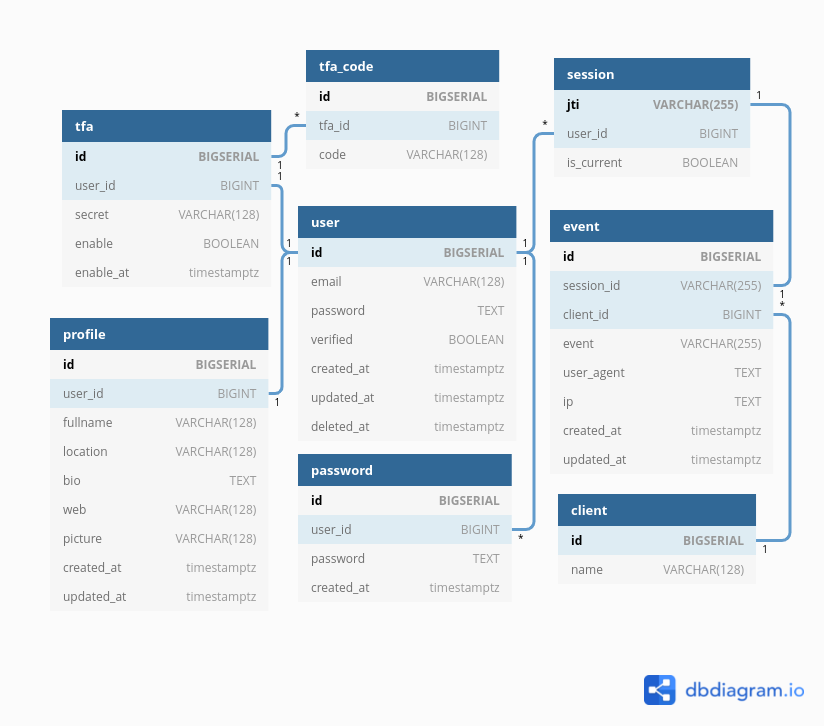
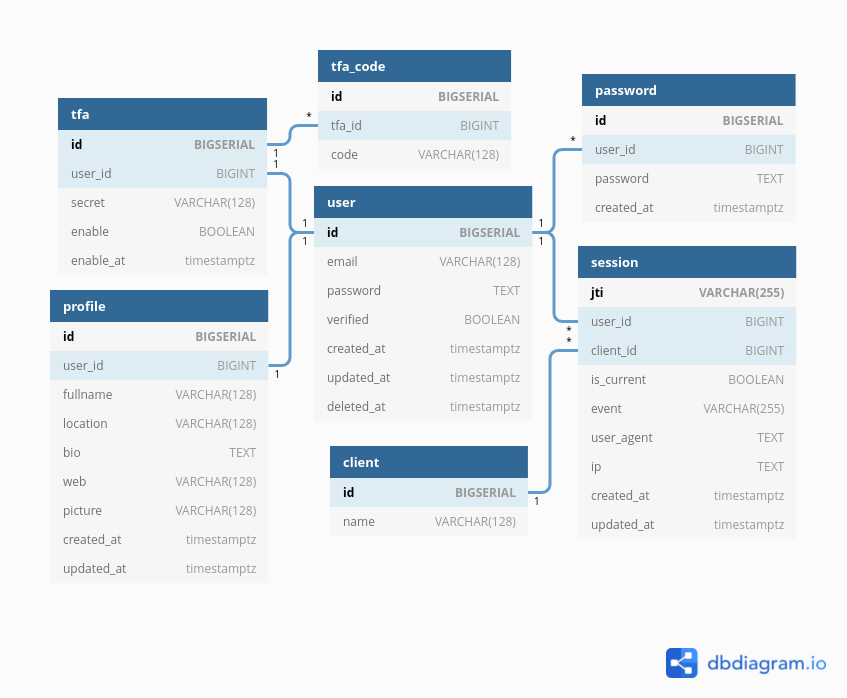
fixing database schema

Changed region(s): [[0.0607, 0.0602, 0.9709, 0.8424], [0.7585, 0.9327, 0.9709, 0.9628]]

diff --git a/api/server.go b/api/server.go
@@ -46,7 +46,6 @@ type serverStores struct {
 	passwordStore datastore.PasswordStore
 	sessionStore  datastore.SessionStore
 	clientStore   datastore.ClientStore
-	eventStore    datastore.EventStore
 	tokenStore    datastore.TokenStore
 }
 
@@ -71,7 +70,6 @@ func (s *Server) initStores() error {
 	passwordStore := postgres.NewPasswordStore(s.DataSource.PostgresDB)
 	sessionStore := postgres.NewSessionStore(s.DataSource.PostgresDB)
 	clientStore := postgres.NewClientStore(s.DataSource.PostgresDB)
-	eventStore := postgres.NewEventStore(s.DataSource.PostgresDB)
 	tokenStore := redisdb.NewTokenStore(s.DataSource.RedisDB)
 
 	s.stores = &serverStores{
@@ -80,7 +78,6 @@ func (s *Server) initStores() error {
 		passwordStore: passwordStore,
 		sessionStore:  sessionStore,
 		clientStore:   clientStore,
-		eventStore:    eventStore,
 		tokenStore:    tokenStore,
 	}
 	return nil
@@ -123,7 +120,7 @@ func (s *Server) createHandlers() http.Handler {
 		r.Route("/auth", func(r chi.Router) {
 			r.Post("/register", auth.Register(*s.helper.Email, s.stores.userStore, s.stores.profileStore, s.stores.passwordStore, s.stores.tokenStore))
 			r.Post("/verification", auth.Verification(*s.helper.Email, s.stores.tokenStore, s.stores.userStore))
-			r.Post("/login", auth.Login(*s.helper.Jwtauth, s.stores.userStore, s.stores.sessionStore, s.stores.clientStore, s.stores.eventStore))
+			r.Post("/login", auth.Login(*s.helper.Jwtauth, s.stores.userStore, s.stores.sessionStore, s.stores.clientStore))
 
 			r.Route("/password", func(r chi.Router) {
 				r.Post("/forgot", auth.ForgotPassword(*s.helper.Email, s.stores.userStore, s.stores.tokenStore))

diff --git a/datastore/store.go b/datastore/store.go
@@ -36,18 +36,8 @@ type Password struct {
 type Session struct {
 	JTI       string  `json:"JTI" sql:"jti"`
 	UserId    float64 `json:"userId" sql:"user_id"`
-	IsCurrent bool    `json:"isCurrent" validate:"required" sql:"is_current"`
-}
-
-type Client struct {
-	ID   float64 `json:"id" sql:"id"`
-	Name string  `json:"name" validate:"required" sql:"name"`
-}
-
-type Event struct {
-	ID        float64 `json:"id" sql:"id"`
-	SessionId string  `json:"JTI" sql:"jti"`
 	ClientId  float64 `json:"clientId" sql:"client_id"`
+	IsCurrent bool    `json:"isCurrent" validate:"required" sql:"is_current"`
 	Event     string  `json:"event" sql:"event"`
 	UserAgent string  `json:"userAgent" sql:"user_agent"`
 	IP        string  `json:"ip" sql:"ip"`
@@ -55,19 +45,19 @@ type Event struct {
 	UpdatedAt string  `json:"updatedAt" sql:"updated_at"`
 }
 
+type Client struct {
+	ID   float64 `json:"id" sql:"id"`
+	Name string  `json:"name" validate:"required" sql:"name"`
+}
+
 type SessionStore interface {
 	GetUserSession(ctx context.Context, userId float64) (*Session, error)
-	AddNewSession(ctx context.Context, session *Session) error
+	AddNewSession(ctx context.Context, session *Session, clientId float64) error
 }
 
 type ClientStore interface {
 	GetClientByName(ctx context.Context, name string) (*Client, error)
 	AddNewClient(ctx context.Context, name string) (*Client, error)
-}
-
-type EventStore interface {
-	GetEventBySession(ctx context.Context, sessionId string) (*Event, error)
-	AddNewEvent(ctx context.Context, sessionId string, clientId float64) error
 }
 
 type ProfileStore interface {

diff --git a/api/handler/auth/login.go b/api/handler/auth/login.go
@@ -15,7 +15,7 @@ type loginRequest struct {
 	Password string `json:"password"`
 }
 
-func Login(jwtAuth helper.JWTAuth, userStore datastore.UserStore, sessionStore datastore.SessionStore, clientStore datastore.ClientStore, eventStore datastore.EventStore) http.HandlerFunc {
+func Login(jwtAuth helper.JWTAuth, userStore datastore.UserStore, sessionStore datastore.SessionStore, clientStore datastore.ClientStore) http.HandlerFunc {
 	return func(w http.ResponseWriter, r *http.Request) {
 
 		ctx := r.Context()
@@ -47,18 +47,13 @@ func Login(jwtAuth helper.JWTAuth, userStore datastore.UserStore, sessionStore d
 			return
 		}
 
-		if err := sessionStore.AddNewSession(ctx, &datastore.Session{JTI: jti, UserId: usr.ID, IsCurrent: true}); err != nil {
-			render.Render(w, r, helper.InternalServerErrorRenderer(err))
-			return
-		}
-
 		client, err := clientStore.GetClientByName(ctx, clientName)
 		if err != nil {
 			render.Render(w, r, helper.InternalServerErrorRenderer(err))
 			return
 		}
 
-		if err := eventStore.AddNewEvent(ctx, jti, client.ID); err != nil {
+		if err := sessionStore.AddNewSession(ctx, &datastore.Session{JTI: jti, UserId: usr.ID, IsCurrent: true}, client.ID); err != nil {
 			render.Render(w, r, helper.InternalServerErrorRenderer(err))
 			return
 		}

diff --git a/datastore/postgres/session.go b/datastore/postgres/session.go
@@ -21,15 +21,15 @@ func (s *SessionStore) GetUserSession(ctx context.Context, userId float64) (*dat
 	return nil, nil
 }
 
-func (s *SessionStore) AddNewSession(ctx context.Context, session *datastore.Session) error {
-	query := `INSERT INTO "session" (jti, user_id, is_current) VALUES ($1, $2, $3)`
+func (s *SessionStore) AddNewSession(ctx context.Context, session *datastore.Session, clientId float64) error {
+	query := `INSERT INTO "session" (jti, user_id, client_id, is_current) VALUES ($1, $2, $3, $4)`
 
 	stmt, err := s.db.Prepare(query)
 	if err != nil {
 		return err
 	}
 
-	_, err = stmt.ExecContext(ctx, session.JTI, session.UserId, session.IsCurrent)
+	_, err = stmt.ExecContext(ctx, session.JTI, session.UserId, clientId, session.IsCurrent)
 	if err != nil {
 		return err
 	}

diff --git a/api/handler/session/list_session.go b/api/handler/session/list_session.go
@@ -9,7 +9,7 @@ import (
 	"github.com/go-chi/render"
 )
 
-func GetListSession(jwtAuth helper.JWTAuth, sessionStore datastore.SessionStore, clientStore datastore.ClientStore, eventStore datastore.EventStore) http.HandlerFunc {
+func GetListSession(jwtAuth helper.JWTAuth, sessionStore datastore.SessionStore, clientStore datastore.ClientStore) http.HandlerFunc {
 	return func(rw http.ResponseWriter, r *http.Request) {
 		ctx := r.Context()
 		_, claims, err := helper.FromContext(ctx)
@@ -19,5 +19,6 @@ func GetListSession(jwtAuth helper.JWTAuth, sessionStore datastore.SessionStore,
 		}
 
 		userId := claims["userID"]
+		fmt.Println(userId)
 	}
 }

diff --git a/README.md b/README.md
@@ -56,6 +56,35 @@ ALTER TABLE "profile" ADD FOREIGN KEY ("user_id") REFERENCES "user" ("id");
 
 CREATE INDEX ON "profile" ("user_id");
 
+CREATE TABLE IF NOT EXISTS "client" (
+  "id" BIGSERIAL PRIMARY KEY,
+  "name" VARCHAR(128) NOT NULL
+);
+
+CREATE INDEX ON "client" ("id");
+
+CREATE INDEX ON "client" ("name");
+
+CREATE TABLE IF NOT EXISTS "session" (
+  "jti" VARCHAR(255)  PRIMARY KEY,
+  "user_id" BIGINT,
+  "client_id" BIGINT,
+  "is_current" BOOLEAN NOT NULL DEFAULT TRUE,
+  "event" VARCHAR(255),
+  "user_agent" TEXT,
+  "ip" TEXT,
+  "created_at" timestamptz NOT NULL DEFAULT (now()),
+  "updated_at" timestamptz NOT NULL DEFAULT (now())
+);
+
+ALTER TABLE "session" ADD FOREIGN KEY ("user_id") REFERENCES "user" ("id");
+
+ALTER TABLE "session" ADD FOREIGN KEY ("client_id") REFERENCES "client" ("id");
+
+CREATE INDEX ON "session" ("user_id");
+
+CREATE INDEX ON "session" ("client_id");
+
 CREATE TABLE IF NOT EXISTS "tfa" (
   "id" BIGSERIAL PRIMARY KEY,
   "user_id" BIGINT,
@@ -77,36 +106,6 @@ CREATE TABLE IF NOT EXISTS "tfa_code" (
 ALTER TABLE "tfa_code" ADD FOREIGN KEY ("tfa_id") REFERENCES "tfa" ("id");
 
 CREATE INDEX ON "tfa_code" ("tfa_id");
-
-CREATE TABLE IF NOT EXISTS "session" (
-  "jti" VARCHAR(255)  PRIMARY KEY,
-  "user_id" BIGINT,
-  "client_id" BIGINT,
-  "is_current" BOOLEAN NOT NULL DEFAULT TRUE
-  "event" VARCHAR(255),
-  "user_agent" TEXT,
-  "ip" TEXT,
-  "created_at" timestamptz NOT NULL DEFAULT (now()),
-  "updated_at" timestamptz NOT NULL DEFAULT (now())
-);
-
-ALTER TABLE "session" ADD FOREIGN KEY ("user_id") REFERENCES "user" ("id");
-
-ALTER TABLE "session" ADD FOREIGN KEY ("client_id") REFERENCES "client" ("id");
-
-CREATE INDEX ON "session" ("user_id");
-
-CREATE INDEX ON "session" ("client_id");
-
-
-CREATE TABLE IF NOT EXISTS "client" (
-  "id" BIGSERIAL PRIMARY KEY,
-  "name" VARCHAR(128) NOT NULL
-);
-
-CREATE INDEX ON "client" ("id");
-
-CREATE INDEX ON "client" ("name");
 
 COMMENT ON COLUMN "user"."password" IS 'bcrypt';
 
